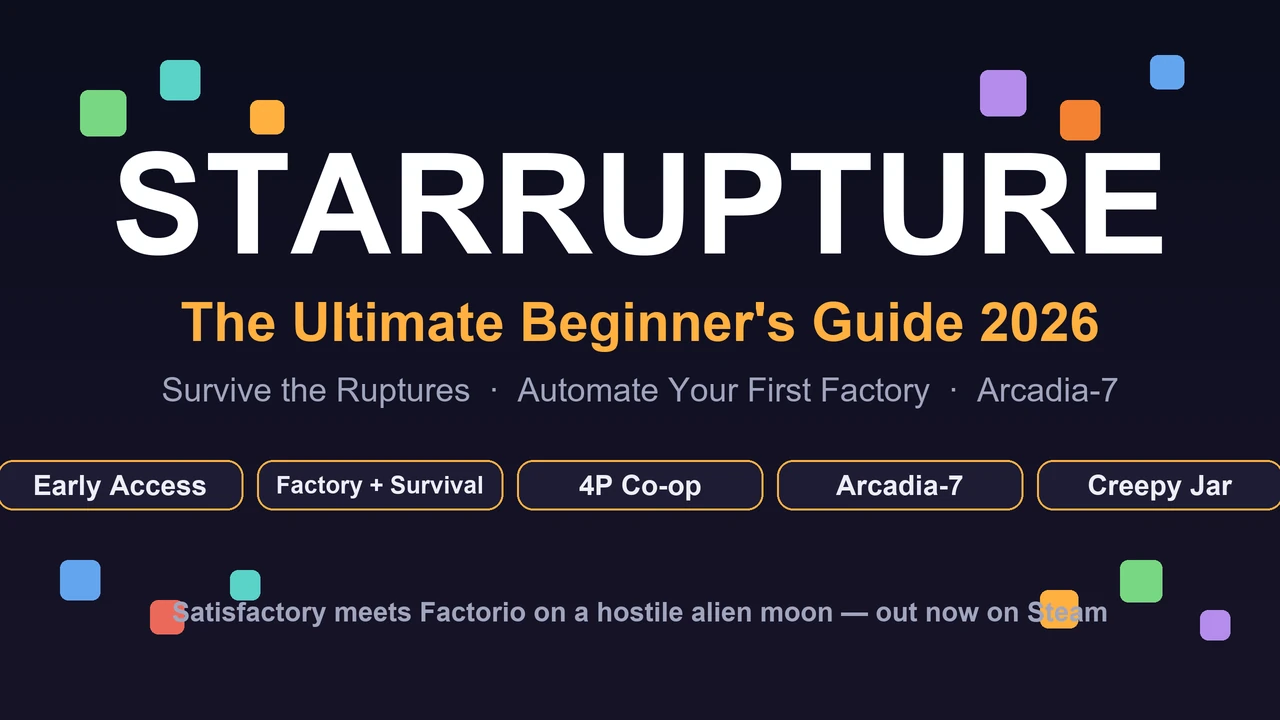
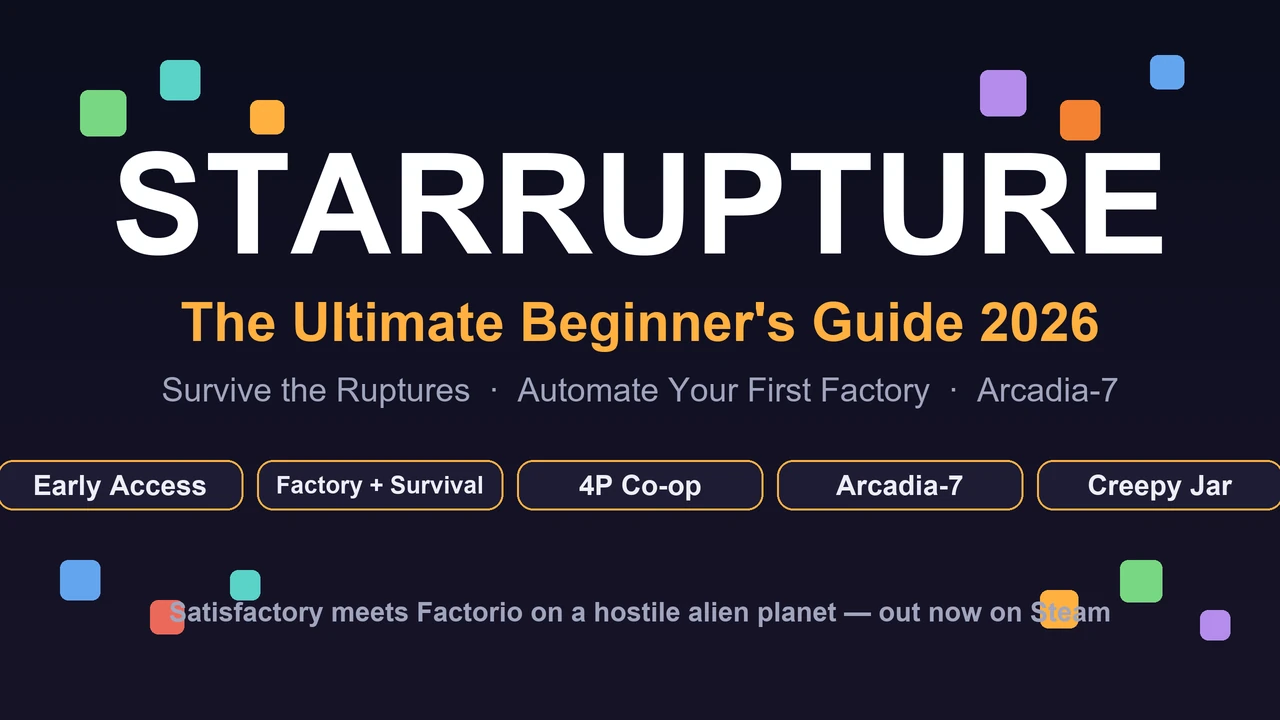
Fix StarRupture guide per review: 5 corporations (+Training tutorial), HUD five stats, Mostly Positive rating, Arcadia-7 is a planet

Changed region(s): [[0.125, 0.825, 0.6562, 0.8861], [0.6875, 0.825, 0.875, 0.8861]]

diff --git a/scripts/gen_starrupture_images.py b/scripts/gen_starrupture_images.py
@@ -98,8 +98,8 @@ def hero():
         rrect(d, (x * SS, 460 * SS, (x + chip_w) * SS, 510 * SS), 16, fill=PANEL_BG, outline=AMBER, width=2)
         f = fit_font(chip, chip_w - 24, 28, bold=True)
         ctext(d, (x + chip_w / 2, 485), chip, f, fill=TEXT)
-    ctext(d, (W / 2, 612), "Satisfactory meets Factorio on a hostile alien moon — out now on Steam",
-          fit_font("Satisfactory meets Factorio on a hostile alien moon — out now on Steam", W - 80, 27, bold=True),
+    ctext(d, (W / 2, 612), "Satisfactory meets Factorio on a hostile alien planet — out now on Steam",
+          fit_font("Satisfactory meets Factorio on a hostile alien planet — out now on Steam", W - 80, 27, bold=True),
           fill=MUTED)
     save(img, "starrupture-beginners-hero.webp")
 
@@ -146,7 +146,6 @@ def corporations():
     ctext(d, (W / 2, 136), "Level them by exporting materials — don't burn Data Points here", font(29), fill=MUTED)
 
     corps = [
-        ("TRAINING", GREEN, "Early automation", "Solar, Excavator, Smelter"),
         ("MOON ENERGY", AMBER, "Power + Map", "Recipe Station, Map (Lv3)"),
         ("SELENIAN", ORANGE, "Materials", "Fabricator (Lv2), Furnace"),
         ("CLEVER ROBOTICS", BLUE, "Logistics", "OCL, Rails, Building Drone"),
@@ -168,6 +167,11 @@ def corporations():
         ctext(d, (x + bw / 2, y + 78), sub, f, fill=TEXT)
         fs = fit_font(extra, bw - 24, 21, bold=False)
         ctext(d, (x + bw / 2, y + 122), extra, fs, fill=MUTED)
+    # Training is the tutorial track (separate from the five main corporations)
+    rrect(d, (x0 * SS, 560 * SS, (W - x0) * SS, 602 * SS), 16, fill=PANEL_BG2, outline=GREEN, width=2)
+    ctext(d, (W / 2, 581), "Tutorial:  Training  unlocks Solar Generator v.1, Ore Excavator & Smelter (first hour only)",
+          fit_font("Tutorial:  Training  unlocks Solar Generator v.1, Ore Excavator & Smelter (first hour only)", W - 2 * x0 - 40, 25, bold=True),
+          fill=GREEN)
     rrect(d, (x0 * SS, 618 * SS, (W - x0) * SS, 666 * SS), 16, fill=PANEL_BG2, outline=AMBER, width=2)
     ctext(d, (W / 2, 642), "First targets:  Moon Energy Lv3 (Map)  →  Selenian Lv2 (Fabricator)  →  Griffits Blue Lv2 (Pistol)",
           fit_font("First targets:  Moon Energy Lv3 (Map)  →  Selenian Lv2 (Fabricator)  →  Griffits Blue Lv2 (Pistol)", W - 2 * x0 - 40, 27, bold=True),

diff --git a/docs/starrupture/beginners-guide.md b/docs/starrupture/beginners-guide.md
@@ -12,7 +12,7 @@ tags: [StarRupture, survival, factory, automation, base building, beginner guide
 **Genre:** Open-world survival / factory automation / base building
 **Platforms:** PC (Steam) | **Multiplayer:** Solo or up to 4-player co-op
 
-StarRupture is the breakout factory-survival game of 2026: **Creepy Jar** — the Polish studio behind *Green Hell* — drops you on Arcadia-7, a hostile alien moon whose star erupts in repeated cataclysms. It's *Satisfactory* meets *Factorio* on an alien planet, with survival mechanics and alien hordes on top. It topped Steam's best-seller charts within days of its Early Access launch, and its **Very Positive** rating says the factory loop is the real deal. This guide gets you through the first hour, the first Rupture, and your first fully automated production line.
+StarRupture is the breakout factory-survival game of 2026: **Creepy Jar** — the Polish studio behind *Green Hell* — drops you on Arcadia-7, a hostile alien planet whose star erupts in repeated cataclysms. It's *Satisfactory* meets *Factorio* on an alien planet, with survival mechanics and alien hordes on top. It topped Steam's best-seller charts within days of its Early Access launch, and its **Mostly Positive** rating says the factory loop is the real deal. This guide gets you through the first hour, the first Rupture, and your first fully automated production line.
 
 ![StarRupture hero banner — survive Arcadia-7, automate your first factory, and ride out the Rupture waves](/assets/images/starrupture/starrupture-beginners-hero.webp)
 
@@ -20,7 +20,7 @@ StarRupture is the breakout factory-survival game of 2026: **Creepy Jar** — th
 
 ## What Is StarRupture, Really?
 
-You are a **prisoner serving a sentence on Arcadia-7**, doing the only work that matters out here: mining, refining, and shipping resources for the five corporations that run the moon. The catch — beyond your sentence — is the environment. The planet's sun, **Ruptura**, periodically erupts in solar storms that incinerate the surface. Between eruptions you build, automate, and expand; when the warnings sound, you drop everything and get inside.
+You are a **prisoner serving a sentence on Arcadia-7**, doing the only work that matters out here: mining, refining, and shipping resources for the five corporations that run the planet. The catch — beyond your sentence — is the environment. The planet's sun, **Ruptura**, periodically erupts in solar storms that incinerate the surface. Between eruptions you build, automate, and expand; when the warnings sound, you drop everything and get inside.
 
 **The core loop:** Hand-mine resources → build automation (excavators, rails, smelters) → refine ores into components → ship goods to orbital corporations via the **Orbital Cargo Launcher** → unlock better tech → survive the next Rupture and build bigger.
 
@@ -29,11 +29,11 @@ You are a **prisoner serving a sentence on Arcadia-7**, doing the only work that
 | **Developer / Publisher** | Creepy Jar (creators of *Green Hell*) |
 | **Early Access Launch** | January 6, 2026 (Steam) |
 | **Steam Price** | $19.99 (launch promo $15.99) |
-| **Player Rating** | Very Positive (thousands of reviews) |
+| **Player Rating** | Mostly Positive (~81% of thousands of reviews) |
 | **Platforms** | PC (Steam) |
 | **Multiplayer** | 1–4 players co-op (dedicated servers experimental) |
 | **Engine** | Unreal Engine 5 |
-| **Setting** | Arcadia-7, an alien moon orbiting the erupting star Ruptura |
+| **Setting** | Arcadia-7, a hostile alien planet orbiting the erupting star Ruptura |
 
 **If you like:** [Satisfactory](/satisfactory/), [Factorio](/factorio/), [Subnautica](/subnautica/), [Valheim](/valheim/) — StarRupture sits at the junction of factory automation and hostile-planet survival. For more automation, see the [Satisfactory guide hub](/satisfactory/); for more hostile-planet survival, see the [Subnautica guide hub](/subnautica/).
 
@@ -41,7 +41,7 @@ You are a **prisoner serving a sentence on Arcadia-7**, doing the only work that
 
 ## Your Vital Signs: Calories, Hydration & Toxicity
 
-Your HUD tracks four things that actually matter for survival. The first two are the classic hunger/thirst pair; the third is what makes Arcadia-7 special.
+Your HUD tracks five things that actually matter for survival. The first two are the classic hunger/thirst pair, the third is the survival-game twist that makes Arcadia-7 special, and the last two cover your combat readiness and stamina.
 
 | Stat | What it does | How to fix it |
 |:-----|:-------------|:--------------|
@@ -143,13 +143,12 @@ The whole game is one conveyor-fed chain, and it doesn't get more complicated th
 
 ## The Five Corporations: What to Level First
 
-Every building and recipe in the game is gated behind **five corporations**, each with its own level track. You level them by **exporting materials via the Orbital Cargo Launcher** (the scalable, long-term method) or by spending **Data Points** at the Corporate Terminal (fast but wasteful early — save DP for recipes).
+Every building and recipe in the game is gated behind **five corporations**, each with its own level track. (A sixth track, **Training**, only appears during the tutorial — it unlocks your very first Solar Generator, Ore Excavator, Rails, and Smelter, then steps aside for the real five.) You level them by **exporting materials via the Orbital Cargo Launcher** (the scalable, long-term method) or by spending **Data Points** at the Corporate Terminal (fast but wasteful early — save DP for recipes).
 
-![StarRupture corporations — Training, Moon Energy, Selenian, Clever Robotics, Griffits Blue, Future Health](/assets/images/starrupture/starrupture-corporations.webp)
+![StarRupture's five main corporations — Moon Energy, Selenian, Clever Robotics, Griffits Blue, Future Health](/assets/images/starrupture/starrupture-corporations.webp)
 
 | Corporation | Focus | Headline unlocks |
 |:------------|:------|:-----------------|
-| **Training** | Early automation | Solar Generator v.1, Ore Excavator, Rails, Smelter |
 | **Moon Energy** | Power & mapping | **Recipe Station (Lv2)**, **Map (Lv3)**, Wind Turbine |
 | **Selenian** | Materials & mining | Base Core, **Fabricator (Lv2)**, Furnace (Lv4), Helium-3 Extractor (Lv6), Refinery & Sulfur Extractor (Lv9), Assembler (Lv10) |
 | **Clever Robotics** | Logistics & automation | **Orbital Cargo Launcher**, Rails (v.1–v.3), Storage Depot, **Building Drone (Lv4)**, Cargo Dispatcher/Receiver (Lv7) |
@@ -182,7 +181,7 @@ Every building and recipe in the game is gated behind **five corporations**, eac
 
 **Where to spend DP:** the **Recipe Station** (Moon Energy Lv2) is where recipes get unlocked. Pick a station tab (Smelter, Fabricator, Furnace, Food Station…), then spend the required materials **plus** Data Points to unlock its recipes. **Don't dump DP into corporations** — level those by launching exports instead, and save DP for recipes.
 
-**Blueprints:** advanced recipes need **Blueprints**, found in **Blue Chests** inside **Abandoned Settlements** scattered across the moon (expect Vermin and Rupture risk at each one). Get the **Map** before blueprint hunting — you'll waste hours wandering otherwise.
+**Blueprints:** advanced recipes need **Blueprints**, found in **Blue Chests** inside **Abandoned Settlements** scattered across the planet (expect Vermin and Rupture risk at each one). Get the **Map** before blueprint hunting — you'll waste hours wandering otherwise.
 
 ---
 
@@ -247,7 +246,7 @@ Southwest, near the Orbital Lander, against a cliff, beside clustered Titanium a
 Carry the emergency kit (1 Meteor Heart + 100+ BBM) and drop an emergency Habitat + airlock the second the countdown starts. Everything refunds at 100% when you deconstruct.
 
 **Q: Is the game worth playing in Early Access?**
-If you like factory games, yes — the automation loop is solid and the Very Positive rating backs it up. If you want polished UI and complete content, a few major updates might suit you better. It's also on sale more often than most EA titles.
+If you like factory games, yes — the automation loop is solid and the Mostly Positive rating backs it up. If you want polished UI and complete content, a few major updates might suit you better. It's also on sale more often than most EA titles.
 
 **Q: How does StarRupture compare to Satisfactory / Factorio?**
 It's the survival-ier cousin of both: [Satisfactory](/satisfactory/) gives you a friendlier 3D world with less pressure, [Factorio](/factorio/) gives you deeper optimization with no survival layer — StarRupture puts a survival and combat layer on top of the factory grind. See the [game comparison](/games/comparison/) for how all three stack up.

diff --git a/docs/starrupture/index.md b/docs/starrupture/index.md
@@ -7,20 +7,20 @@ tags: [StarRupture, survival, factory, automation, base building, guide, 2026]
 
 # StarRupture 🪐
 
-**Satisfactory meets Factorio on a hostile alien moon** — survive the star's eruptions, automate a factory, and earn your way off Arcadia-7.
+**Satisfactory meets Factorio on a hostile alien planet** — survive the star's eruptions, automate a factory, and earn your way off Arcadia-7.
 
 [![StarRupture hero banner — survive Arcadia-7, automate your first factory, and ride out the Rupture waves](/assets/images/starrupture/starrupture-beginners-hero.webp){: .game-hero }](/assets/images/starrupture/starrupture-beginners-hero.webp)
 
 ## What is StarRupture?
 
-StarRupture is a **first-person open-world survival + factory automation** game from **Creepy Jar** — the Polish studio behind *Green Hell*. You're a prisoner serving a sentence on **Arcadia-7**, mining and manufacturing for the five corporations that run the moon, while its sun **Ruptura** periodically erupts and scours the surface. Between eruptions you build conveyor-fed production lines: excavators mine ore, rails carry it to smelters and fabricators, and the **Orbital Cargo Launcher** ships finished goods to orbit for reputation and tech unlocks. It launched into Steam Early Access on **January 6, 2026**, and quickly climbed to the top of Steam's best-seller charts.
+StarRupture is a **first-person open-world survival + factory automation** game from **Creepy Jar** — the Polish studio behind *Green Hell*. You're a prisoner serving a sentence on **Arcadia-7**, mining and manufacturing for the five corporations that run the planet, while its sun **Ruptura** periodically erupts and scours the surface. Between eruptions you build conveyor-fed production lines: excavators mine ore, rails carry it to smelters and fabricators, and the **Orbital Cargo Launcher** ships finished goods to orbit for reputation and tech unlocks. It launched into Steam Early Access on **January 6, 2026**, and quickly climbed to the top of Steam's best-seller charts.
 
 | Fact | Value |
 |:-----|:------|
 | **Developer / Publisher** | Creepy Jar |
 | **Early Access Launch** | January 6, 2026 (Steam) |
 | **Steam Price** | $19.99 (launch promo $15.99) |
-| **Player Rating** | Very Positive |
+| **Player Rating** | Mostly Positive |
 | **Platforms** | PC (Steam) |
 | **Multiplayer** | 1–4 players co-op |
 | **Engine** | Unreal Engine 5 |
@@ -33,7 +33,7 @@ StarRupture is a **first-person open-world survival + factory automation** game 
 |:--------|:------------|
 | ⛏ **Factory Automation** | Excavators, rails, smelters, fabricators — a full conveyor-fed production chain |
 | 🔥 **Rupture Cycle** | A periodic solar cataclysm that resets the surface and spawns rare materials |
-| 🏭 **Five Corporations** | Training, Moon Energy, Selenian, Clever Robotics, Griffits Blue & Future Health gate every unlock |
+| 🏭 **Five Corporations** | Moon Energy, Selenian, Clever Robotics, Griffits Blue & Future Health gate every unlock (a tutorial-only Training track covers the first hour) |
 | 🛠 **Research & Blueprints** | Analyzing Station → Data Points → Recipe Station; advanced recipes from Abandoned Settlement Blue Chests |
 | 👾 **Vermin Combat** | Alien bug hordes, from Flingers and Exploders to the armored Goliath boss |
 | 🏗 **Base Building** | Platform-first construction with power grids, rail networks, and automated defense |
@@ -45,7 +45,7 @@ StarRupture is a **first-person open-world survival + factory automation** game 
 
 ## Recent Coverage
 
-- 📰 StarRupture entered **Steam Early Access on January 6, 2026** — the sci-fi factory-survival game from Creepy Jar (the *Green Hell* studio). It topped Steam's best-seller charts within days and holds a **Very Positive** rating, with an Early Access roadmap heading toward 1.0.
+- 📰 StarRupture entered **Steam Early Access on January 6, 2026** — the sci-fi factory-survival game from Creepy Jar (the *Green Hell* studio). It topped Steam's best-seller charts within days and holds a **Mostly Positive** rating (~81%), with an Early Access roadmap heading toward 1.0.
 
 ---
 

diff --git a/docs/index.md b/docs/index.md
@@ -194,7 +194,7 @@
     <img class="mag-game-img" src="assets/images/starrupture/starrupture-beginners-hero.webp" alt="StarRupture" loading="lazy">
     <div class="mag-game-info">
       <span class="mag-game-name">🪐 StarRupture</span>
-      <p class="mag-game-sub">Factory survival on a hostile alien moon</p>
+      <p class="mag-game-sub">Factory survival on a hostile alien planet</p>
       <span class="mag-game-count">1 guide</span>
     </div>
   </a>
